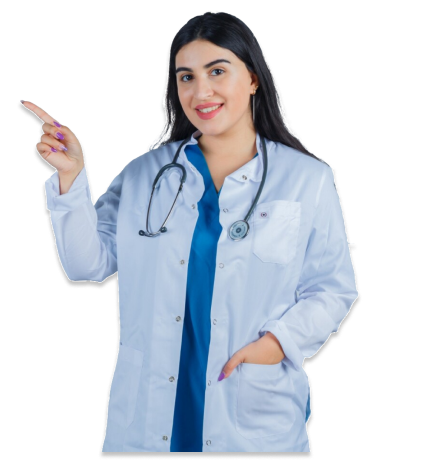
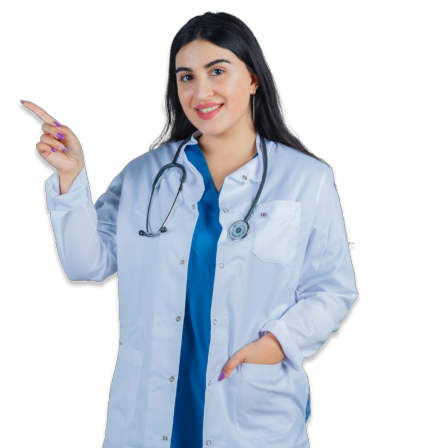
home page compled

diff --git a/front_end/src/components/common/Footer.jsx b/front_end/src/components/common/Footer.jsx
@@ -1,0 +1,79 @@
+import React from "react";
+import logo007 from "../../utils/images/logo007.png";
+import { FaLinkedinIn } from "react-icons/fa";
+import { FaGithub } from "react-icons/fa6";
+import { FaInstagram } from "react-icons/fa";
+import { FaTwitter } from "react-icons/fa";
+
+const Footer = () => {
+  return (
+    <div className="flex w-full text-black items-center bg-[#ddd] border-t px-[140px] py-10">
+      <div className="flex flex-col gap-5 w-2/5">
+        <div className="flex gap-2 items-center">
+          <img src={logo007} alt="logo007" className="w-[30px] h-[30px]" />
+          <div className="anton__font">
+            <span className="text-[#1b1a55] text-[30px]">Medi</span>
+            <span className="text-[#5b59ea] text-[30px]">Connect</span>
+          </div>
+        </div>
+        <div className="text-[20px] font-semibold">
+          Your health is precious; We're here to help you find care.
+        </div>
+        <div className="flex gap-5 text-2xl">
+          <div className="cursor-pointer">
+            <FaGithub />
+          </div>
+          <div className="cursor-pointer">
+            <FaInstagram />
+          </div>
+          <div className="cursor-pointer">
+            <FaLinkedinIn />
+          </div>
+          <div className="cursor-pointer">
+            <FaTwitter />
+          </div>
+        </div>
+      </div>
+      <div className="flex w-3/5 justify-between">
+        <div className="">
+          <div className="font-semibold text-[20px]">Componay</div>
+          <div className="font-medium text-[#555] px-2">
+            <div className="">About US</div>
+            <div className="">Blog</div>
+            <div className="">GItHUb</div>
+            <div className="">Free</div>
+          </div>
+        </div>
+        <div className="">
+          <div className="font-semibold text-[20px]">Componay</div>
+          <div className="font-medium text-[#555] px-2">
+            <div className="">About US</div>
+            <div className="">Blog</div>
+            <div className="">GItHUb</div>
+            <div className="">Free</div>
+          </div>
+        </div>
+        <div className="">
+          <div className="font-semibold text-[20px]">Componay</div>
+          <div className="font-medium text-[#555] px-2">
+            <div className="">About US</div>
+            <div className="">Blog</div>
+            <div className="">GItHUb</div>
+            <div className="">Free</div>
+          </div>
+        </div>
+        <div className="">
+          <div className="font-semibold text-[20px]">Componay</div>
+          <div className="font-medium text-[#555] px-2">
+            <div className="">About US</div>
+            <div className="">Blog</div>
+            <div className="">GItHUb</div>
+            <div className="">Free</div>
+          </div>
+        </div>
+      </div>
+    </div>
+  );
+};
+
+export default Footer;

diff --git a/front_end/src/components/homePage/Carousal.jsx b/front_end/src/components/homePage/Carousal.jsx
@@ -1,21 +1,34 @@
 import React from "react";
 import carousal_doctor from "../../utils/images/carousal_doctor.png";
+import cloud_png from "../../utils/images/cloud_back.png";
 
 const Carousal = () => {
   return (
     <>
-      <div className="px-[140px] py-2 w-full">
+      <div className="px-[140px] w-full pt-16">
         <div className="flex w-full h-[300px]">
           <div className="left__box w-3/4 flex flex-col justify-center">
-            <div className="text-[70px] font-bold ">Your health is precious;</div>
-            <div className="text-[55px] text-[#b8b8b8]">We're here to help you find care</div>
+            <div className="text-[70px] font-bold ">
+              Your health is precious;
+            </div>
+            <div className="text-[55px] text-[#b8b8b8]">
+              We're here to help you find care
+            </div>
           </div>
-          <div className="right__box w-1/4">
-            <img src={carousal_doctor} alt="doctor" className="h-full object-cover scale-x-100"/>
+          <div className="right__box w-1/4 relative">
+            <img
+              src={cloud_png}
+              alt="doctor"
+              className="object-cover"
+            />
+            <img
+              src={carousal_doctor}
+              alt="doctor"
+              className="h-full object-cover scale-x-100 absolute top-0"
+            />
           </div>
         </div>
       </div>
-      <div className=""></div>
     </>
   );
 };

diff --git a/front_end/src/components/homePage/Article.jsx b/front_end/src/components/homePage/Article.jsx
@@ -1,0 +1,35 @@
+import React from "react";
+import ArticleCard from "./ArticleCard";
+
+const Article = () => {
+  // const articleCardList = [
+  //     {},
+  // ]
+
+  return (
+    <div className="px-[140px] flex py-24 gap-5 w-full">
+      <div className="flex flex-col gap-5 w-1/3">
+        <div className="">
+          <div className="text-[30px] font-bold">
+            Read top articles from health experts
+          </div>
+          <div className="text-base">
+            Health articles that keep you informed about good health practices
+            and achieve your goals.
+          </div>
+        </div>
+        <div className="">
+          <div className="bg-blue-500 text-[24px] font-semibold w-fit text-white px-5 py-2 rounded">
+            See all articles
+          </div>
+        </div>
+      </div>
+      <div className="flex gap-5 w-2/3">
+        <ArticleCard />
+        <ArticleCard />
+      </div>
+    </div>
+  );
+};
+
+export default Article;

diff --git a/front_end/src/components/homePage/AppointCard.jsx b/front_end/src/components/homePage/AppointCard.jsx
@@ -1,0 +1,23 @@
+import OrthopedicPana from "../../utils/images/orthopodic.png";
+
+const AppointmentCard = () => {
+  return (
+    <div class="bg-[#fbfadb] max-w-sm rounded shadow-xl mt-24 flex flex-col justify-center items-center">
+      <div className="flex justify-center relative bottom-20 mx-10 ">
+        <img
+          src={OrthopedicPana}
+          alt="Sunset in the mountains"
+          className="drop-shadow-xl"
+        />
+      </div>
+      <div class="px-6 py-4 text-black font-bold text-[26px] relative bottom-[70px]">
+        Virtual Appointment
+      </div>
+      <div className="bg-[#02214f] text-white px-[90px] relative bottom-[60px] py-3 rounded-[10px] text-[18px] font-semibold text-center">
+        Book Now
+      </div>
+    </div>
+  );
+};
+
+export default AppointmentCard;

diff --git a/front_end/src/components/homePage/CarousalInput.jsx b/front_end/src/components/homePage/CarousalInput.jsx
@@ -1,0 +1,24 @@
+import React from "react";
+import SearchBar from "../common/SearchBar";
+import search from "../../utils/images/searchsvg.svg";
+import location from "../../utils/images/locationsvg.svg";
+
+const CarousalInput = () => {
+  return (
+    <>
+      <div className="mx-[140px] px-[70px] bg-[#1b1a55] flex items-end gap-10 py-5 pb-[50px] rounded-[20px]">
+        <div className="w-3/4 ">
+          <div className="text-white pb-2 font-bold text-[18px]">
+            Find Your Doctor{" "}
+          </div>
+          <SearchBar link={search} text="Doctor's nearby" />
+        </div>
+        <div className="w-1/4">
+          <SearchBar link={location} text="Find doctors location" />
+        </div>
+      </div>
+    </>
+  );
+};
+
+export default CarousalInput;

diff --git a/front_end/src/App.js b/front_end/src/App.js
@@ -1,5 +1,9 @@
+import Footer from "./components/common/Footer";
 import Navbar from "./components/common/Navbar";
+import AppointMentBox from "./components/homePage/AppointMentBox";
+import Article from "./components/homePage/Article";
 import Carousal from "./components/homePage/Carousal";
+import CarousalInput from "./components/homePage/CarousalInput";
 import SpecialistHorizontalBar from "./components/homePage/SpecialistHorizontalBar";
 
 function App() {
@@ -8,9 +12,12 @@ function App() {
       <div className="">
         <Navbar />
         <Carousal />
+        <CarousalInput />
         <SpecialistHorizontalBar />
+        <AppointMentBox />
+        <Article />
+        <Footer />
       </div>
-      <div className="h-20"></div>
     </>
   );
 }

diff --git a/front_end/src/components/homePage/ArticleCard.jsx b/front_end/src/components/homePage/ArticleCard.jsx
@@ -1,0 +1,22 @@
+import React from "react";
+import foodPng from "../../utils/images/food.jpg";
+// import vaccinePng from "../../utils/images/vaccine.jpg";
+
+const ArticleCard = () => {
+  return (
+    <div className="flex flex-col gap-2 shadow p-5 rounded-md">
+      <div className="">
+        <img src={foodPng} alt="food" className="rounded-xl" />
+      </div>
+      <div className="flex flex-col gap-3">
+        <div className="text-xs text-blue-500">CORONONAVIRUS</div>
+        <div className="font-bold text-[18px]">
+          12 Coronovirus Myths and Facts That You Should Be Aware Of
+        </div>
+        <div className="text-[#777]">Dr. Diana Borgio</div>
+      </div>
+    </div>
+  );
+};
+
+export default ArticleCard;

diff --git a/front_end/src/components/common/SearchBar.jsx b/front_end/src/components/common/SearchBar.jsx
@@ -1,0 +1,20 @@
+import React from "react";
+
+const SearchBar = ({ link, text }) => {
+  return (
+    <div className="relative flex items-center w-full h-12 rounded-lg focus-within:shadow-lg bg-white overflow-hidden">
+      <div className="grid place-items-center h-full w-12 text-gray-300">
+        <img src={link} alt="#" className="h-6" />
+      </div>
+
+      <input
+        className="peer h-full outline-none text-sm text-gray-700 pr-2"
+        type="text"
+        id="search"
+        placeholder={text}
+      />
+    </div>
+  );
+};
+
+export default SearchBar;

diff --git a/front_end/src/components/homePage/AppointMentBox.jsx b/front_end/src/components/homePage/AppointMentBox.jsx
@@ -1,0 +1,16 @@
+import React from "react";
+import AppointmentCard from "./AppointCard";
+
+const AppointMentBox = () => {
+  return (
+    <div className="flex pt-14 pb-24 bg-[#1b1a55] text-white flex-col gap-2 items-center">
+      <div className="text-[70px]">Book an Appointment today</div>
+      <div className="flex gap-32">
+        <AppointmentCard />
+        <AppointmentCard />
+      </div>
+    </div>
+  );
+};
+
+export default AppointMentBox;

diff --git a/front_end/src/components/homePage/SpecialistHorizontalBar.jsx b/front_end/src/components/homePage/SpecialistHorizontalBar.jsx
@@ -17,7 +17,7 @@ const SpecialistHorizontalBar = () => {
   ];
 
   return (
-    <div className="px-[140px] flex flex-col gap-2">
+    <div className="px-[140px] py-24 flex flex-col gap-2">
       <div className="font-bold text-3xl">Top Searched Specialist</div>
       <div className="flex gap-10 py-5 overflow-y-scroll remove_scroll_bar">
         {doctorCardList.map((doc, index) => {
